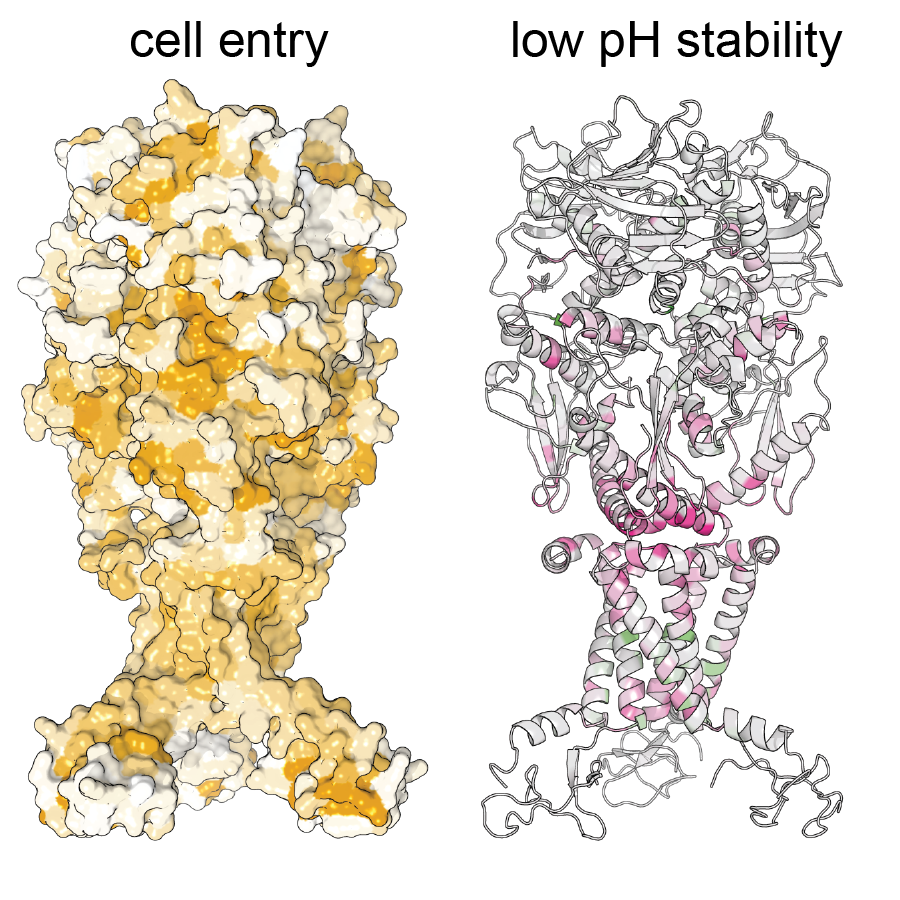
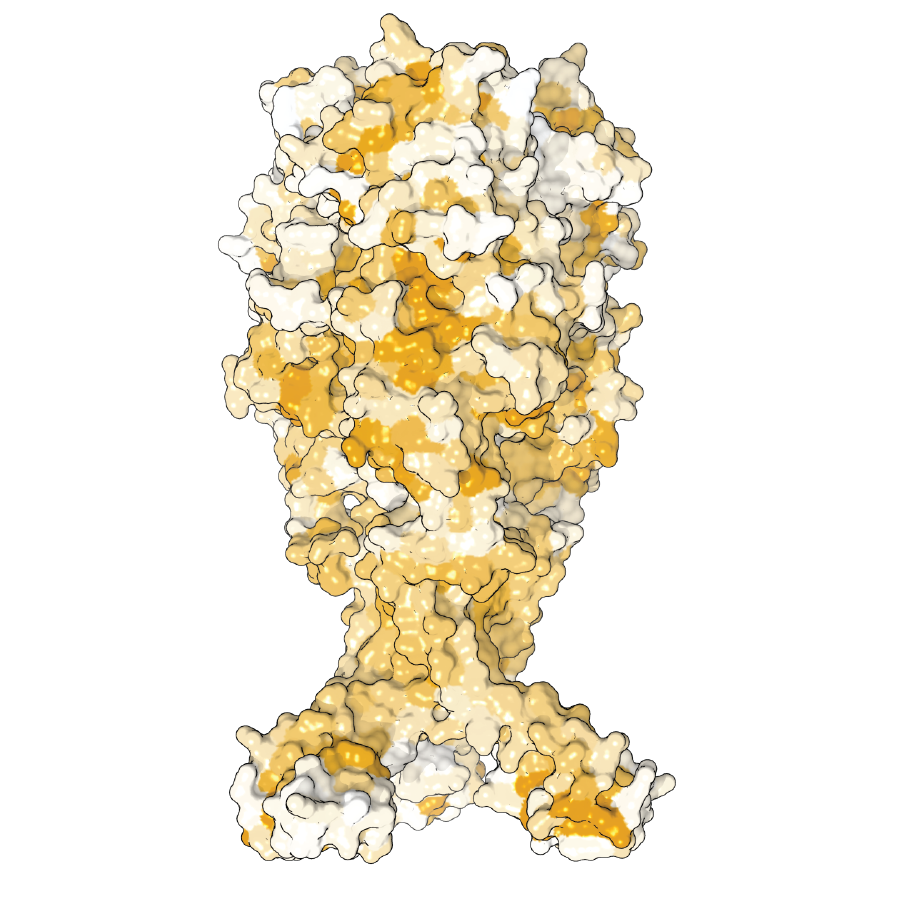
Edit homepage display

diff --git a/homepage/index.md b/homepage/index.md
@@ -18,9 +18,6 @@ features:
   - title: Experiments and Biosafety
     details: Explanation of pseudovirus deep mutational scanning
     link: /pH_stability
-  - title: Pipeline Information
-    details: Details on the computational pipeline
-    link: /pipeline_information
 ---
 
 ## Overview
@@ -32,7 +29,7 @@ The links in the boxes above take you to interactive plots or descriptions of di
 For a high-level overview, see the [summary](summary){target="_self"} of how mutations affect cell entry and low pH stability.
 To delve into the data in more detail, click on the boxes above for each individual phenotype.
 
-You can also examine the output of the full [computational pipeline](pipeline_information){target="_self"} and look at the underlying code [on GitHub](https://github.com/dms-vep/JUNV-Romero-GPC-DMS.git).
+You can also examine the output of the full computational pipeline and look at the underlying code [on GitHub](https://github.com/dms-vep/JUNV-Romero-GPC-DMS.git).
 Here are CSV files of the numerical values pre-filtered for high-confidence values for [cell entry and low pH stability](https://github.com/dms-vep/JUNV-Romero-GPC-DMS/blob/main/results/summaries/cell_entry_and_pH_stability.csv).
 
 Note the experiments use [single-cycle replicative pseudoviruses that can be safely studied at biosafety-level 2](experiments_and_biosafety){target="_self"}.
